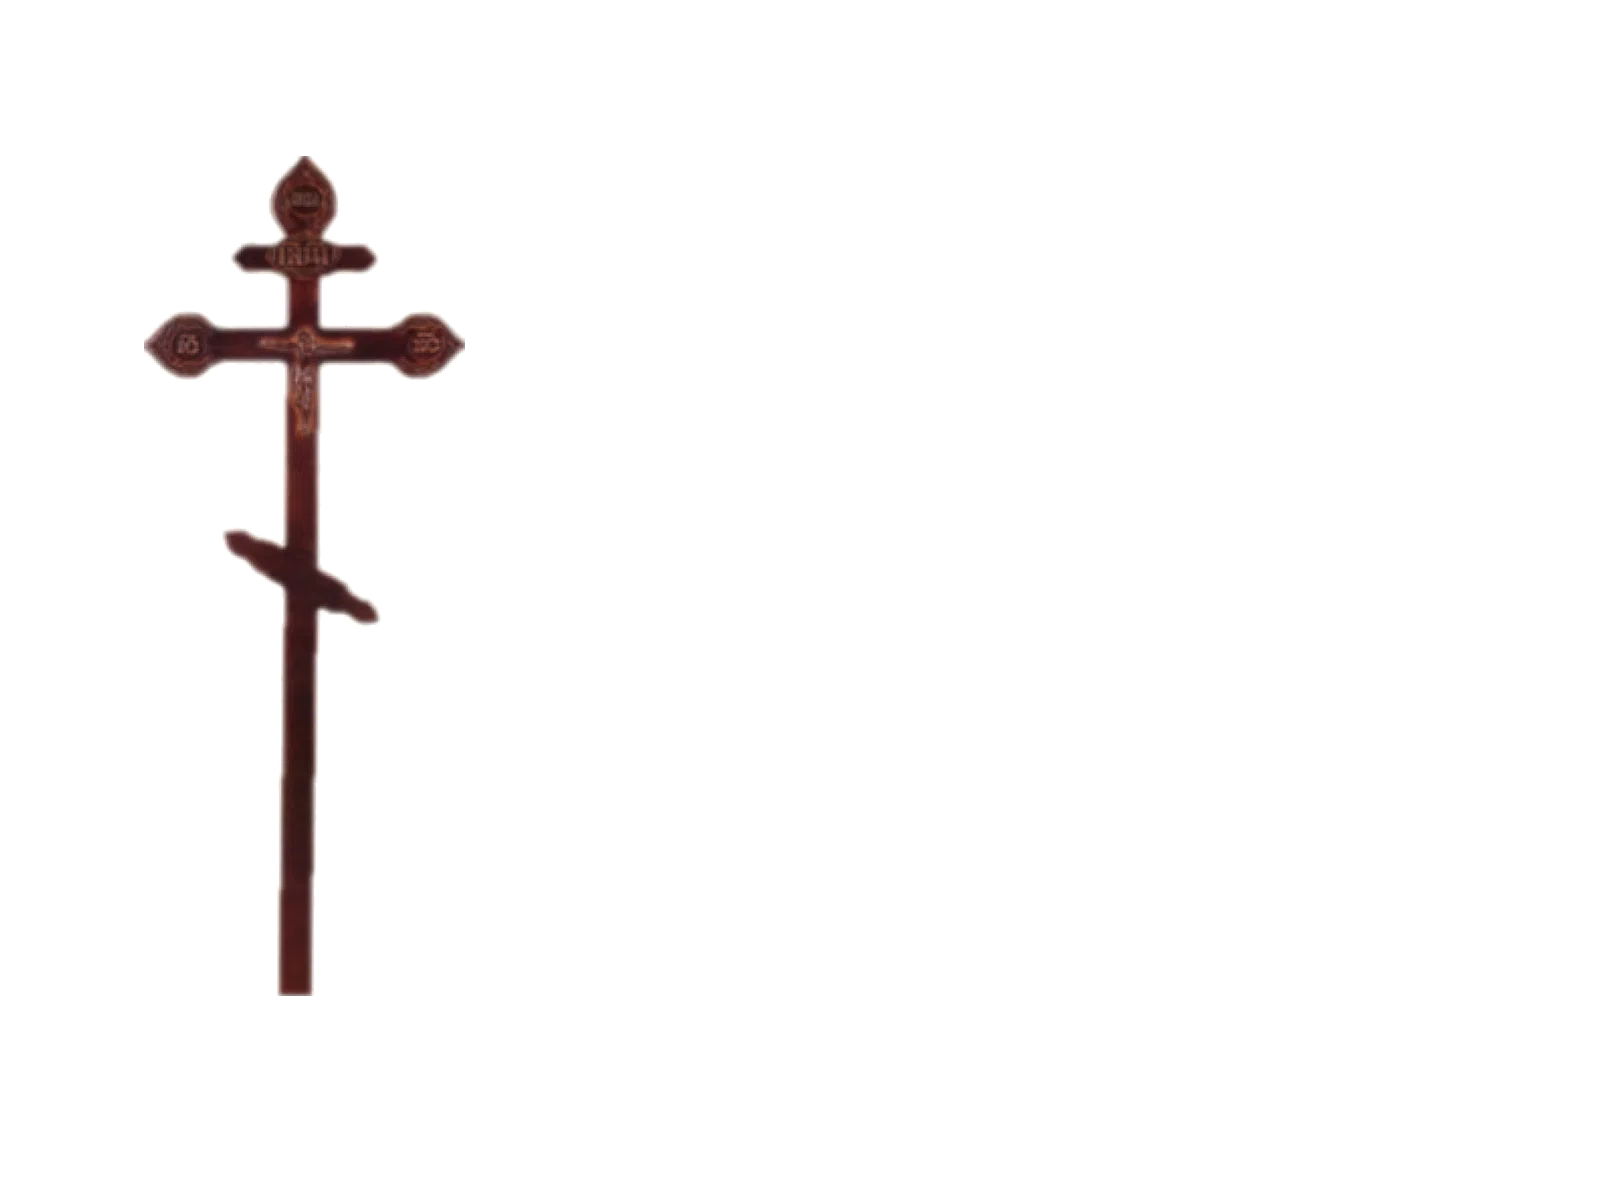
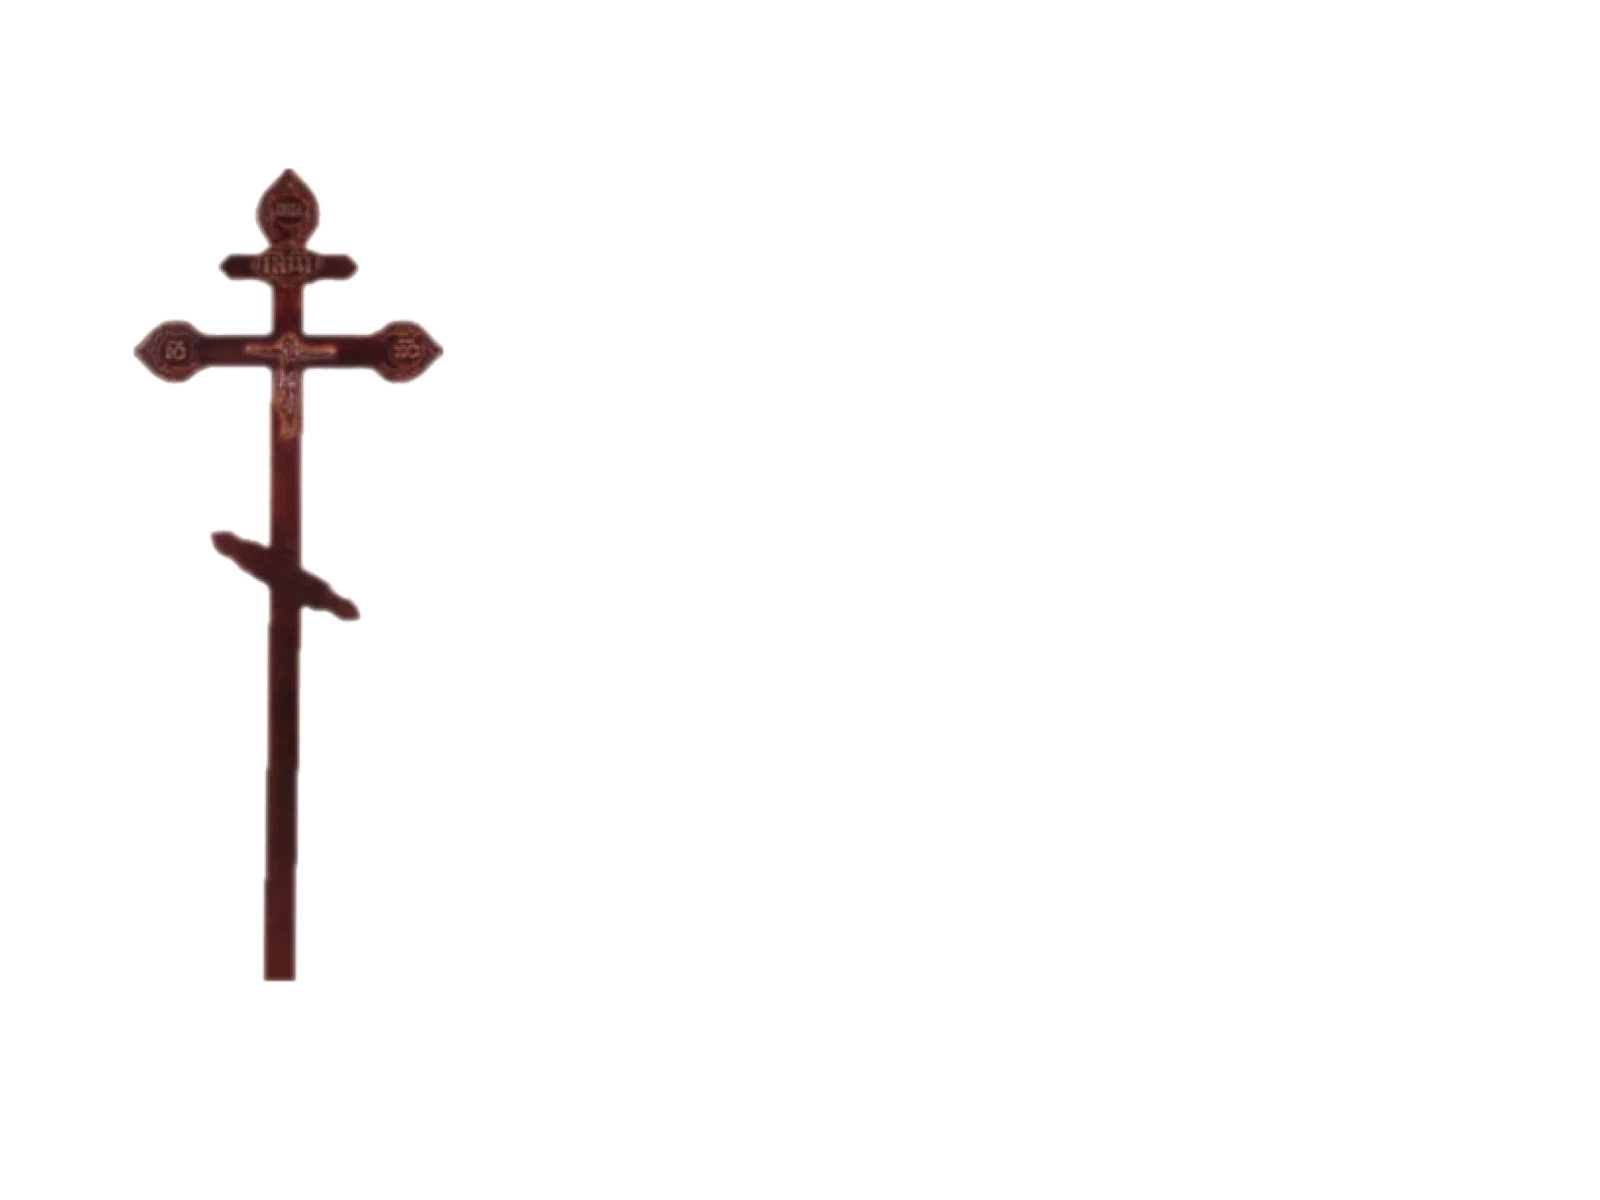
feat(visualizer): реактивное превью в смете + премиум-сцена (фон, отражение, чистые края)

Changed region(s): [[0.0625, 0.1233, 0.3125, 0.8325]]

diff --git a/app/agent/(app)/meetings/[meetingId]/quote/QuoteBuilder.tsx b/app/agent/(app)/meetings/[meetingId]/quote/QuoteBuilder.tsx
@@ -49,7 +49,7 @@ import {
 import { DEFAULT_ATTRIBUTES, type AttrSelection } from "@/lib/attributes";
 import { hydratePackage, withoutPackageItems, PACKAGE_ITEM_SOURCE } from "@/lib/packagePresets";
 import { formatDelta } from "@/lib/calculationUtils";
-import RitualConfigurator from "@/components/configurator/RitualConfigurator";
+import AttributeRender from "@/components/AttributeRender";
 import { ToggleRow } from "./components/ToggleRow";
 import { MemorialBlock } from "./components/MemorialBlock";
 import { EstimateItemRow } from "./components/EstimateItemRow";
@@ -1040,9 +1040,15 @@ export default function QuoteBuilder({ meetingId, cobrowseCode, clientName, case
               </div>
             )}
 
-            {/* Большое превью комплекта + разворот на весь экран */}
+            {/* Живая визуализация комплекта - собирается из выбранных позиций сметы */}
             <div className={s.configuratorSlot}>
-              <RitualConfigurator mode="inline" />
+              <div className="overflow-hidden rounded-[14px] border border-line bg-surface shadow-soft">
+                <div className="border-b border-line px-4 py-3">
+                  <p className="text-[13px] font-semibold text-ink">Визуализация комплекта</p>
+                  <p className="mt-0.5 text-[11px] text-ink-3">Сцена собирается из выбранного гроба, креста и венка - меняется при выборе</p>
+                </div>
+                <AttributeRender selection={attributes} selectedItems={estimateItems} className="block w-full" />
+              </div>
             </div>
 
             <div className={s.categoryRail} aria-label="Категории каталога">

diff --git a/scripts/catalog/scene_layers.py b/scripts/catalog/scene_layers.py
@@ -1,45 +1,49 @@
 #!/usr/bin/env python3
-"""Scene-placed transparent layers for the live set visualizer.
+"""Scene-placed transparent layers for the live set visualizer (premium pass).
 
-Takes white-studio product cutouts and re-places each onto a full 4:3 scene
-canvas at its category slot (coffin lower-center, cross standing at the head,
-wreath on a stand), with a soft contact shadow. Output: per-product transparent
-WEBP/PNG layers that the existing RitualSetPreview stacks into one coherent set
-that updates live as the client picks items.
+White-studio cutouts -> cleaned alpha (despeckle + de-halo + feather) -> placed
+on a 4:3 stage at category slots with soft contact shadow + floor reflection.
+Background is a calm hall: soft center spotlight, faint floor, gentle vignette.
 """
 import os
 import numpy as np
+import cv2
 from PIL import Image, ImageFilter, ImageDraw
 
 CUT = os.environ.get("CUTOUT_DIR", "cut")    # папка с белыми вырезами (вывод cutout.py)
 OUT = os.environ.get("SCENE_OUT", "scene")   # куда класть слои сцены
-CANVAS = (1600, 1200)  # 4:3 stage, all layers share this canvas so they align
+CANVAS = (1600, 1200)
 
-# Per-slot placement: center-x, baseline-y (bottom of object), height — all as
-# fractions of the canvas. Tuned so a 3/4 coffin reads as being on a catafalque,
-# the (frontal) cross stands at the head, the (frontal) wreath sits on a stand.
 SLOTS = {
-    "coffin": dict(cx=0.54, by=0.86, h=0.40, shadow=True),
-    "cross":  dict(cx=0.19, by=0.83, h=0.70, shadow=False),
-    "wreath": dict(cx=0.83, by=0.86, h=0.50, shadow=True),
+    "coffin": dict(cx=0.50, by=0.84, h=0.40, shadow=True, reflect=True),
+    "cross":  dict(cx=0.18, by=0.82, h=0.68, shadow=False, reflect=False),
+    "wreath": dict(cx=0.81, by=0.85, h=0.44, shadow=True, reflect=True),
 }
 
 
-def alpha_from_white(jpg_path, thr=236):
-    """Recover a transparent cutout from a white-background JPG."""
+def alpha_from_white(jpg_path, thr=232):
+    """Clean transparent cutout from a white-bg JPG: despeckle, de-halo, feather."""
     im = Image.open(jpg_path).convert("RGB")
-    arr = np.asarray(im).astype(np.int16)
-    white = (arr[..., 0] > thr) & (arr[..., 1] > thr) & (arr[..., 2] > thr)
-    a = (~white).astype(np.uint8) * 255
-    ys, xs = np.where(a > 12)
+    rgb = np.asarray(im).astype(np.int16)
+    white = (rgb[..., 0] > thr) & (rgb[..., 1] > thr) & (rgb[..., 2] > thr)
+    a = (~white).astype(np.uint8)
+    # keep the largest blob (drop stray specks => cleaner edges)
+    n, lab, stats, _ = cv2.connectedComponentsWithStats(a, 8)
+    if n > 1:
+        a = (lab == 1 + int(np.argmax(stats[1:, cv2.CC_STAT_AREA]))).astype(np.uint8)
+    # fill interior holes
+    ff = a.copy()
+    cv2.floodFill(ff, np.zeros((a.shape[0] + 2, a.shape[1] + 2), np.uint8), (0, 0), 1)
+    a = a | (1 - ff)
+    a = cv2.erode(a, cv2.getStructuringElement(cv2.MORPH_ELLIPSE, (3, 3)), 1)  # kill white halo
+    alpha = cv2.GaussianBlur((a * 255).astype(np.float32), (0, 0), 1.1)
+    ys, xs = np.where(alpha > 14)
     if len(xs) == 0:
         return None
     x0, x1, y0, y1 = xs.min(), xs.max(), ys.min(), ys.max()
-    im = im.crop((x0, y0, x1 + 1, y1 + 1))
-    am = Image.fromarray(a).crop((x0, y0, x1 + 1, y1 + 1)).filter(ImageFilter.GaussianBlur(0.8))
     rgba = im.convert("RGBA")
-    rgba.putalpha(am)
-    return rgba
+    rgba.putalpha(Image.fromarray(np.clip(alpha, 0, 255).astype(np.uint8)))
+    return rgba.crop((x0, y0, x1 + 1, y1 + 1))
 
 
 def place(layer_rgba, slot):
@@ -54,56 +58,70 @@ def place(layer_rgba, slot):
     if s["shadow"]:
         sh = Image.new("RGBA", CANVAS, (0, 0, 0, 0))
         ImageDraw.Draw(sh).ellipse(
-            [cx - int(w * 0.52), by - int(h * 0.06), cx + int(w * 0.52), by + int(h * 0.10)],
-            fill=(20, 25, 25, 90))
-        canvas.alpha_composite(sh.filter(ImageFilter.GaussianBlur(26)))
+            [cx - int(w * 0.46), by - int(h * 0.05), cx + int(w * 0.46), by + int(h * 0.07)],
+            fill=(12, 16, 16, 105))
+        canvas.alpha_composite(sh.filter(ImageFilter.GaussianBlur(32)))
+    if s["reflect"]:
+        ref = r.transpose(Image.FLIP_TOP_BOTTOM)
+        ra = np.asarray(ref.split()[-1]).astype(np.float32)
+        grad = np.linspace(0.22, 0.0, h)[:, None]  # fade reflection downward
+        ref.putalpha(Image.fromarray((ra * grad).astype(np.uint8)))
+        rc = Image.new("RGBA", CANVAS, (0, 0, 0, 0))
+        rc.alpha_composite(ref, (x, by))
+        canvas.alpha_composite(rc.filter(ImageFilter.GaussianBlur(2.0)))
     canvas.alpha_composite(r, (x, y))
     return canvas
 
 
 def make_background():
-    """Soft neutral studio gradient with a faint floor — calm, premium."""
-    bg = Image.new("RGB", CANVAS, (238, 240, 238))
-    top = np.linspace(232, 246, CANVAS[1] // 2).astype(np.uint8)
-    arr = np.asarray(bg).copy()
-    for i, v in enumerate(top):
-        arr[i, :, :] = (v, v + 1, v)
-    floor0 = CANVAS[1] // 2
-    floorv = np.linspace(246, 228, CANVAS[1] - floor0).astype(np.uint8)
-    for i, v in enumerate(floorv):
-        arr[floor0 + i, :, :] = (v, v, v - 2)
-    out = Image.fromarray(arr).filter(ImageFilter.GaussianBlur(40))
-    return out
+    """Calm hall: soft center spotlight, faint floor band, gentle vignette."""
+    W, H = CANVAS
+    yy, xx = np.mgrid[0:H, 0:W].astype(np.float32)
+    cx, cy = W * 0.5, H * 0.42
+    r = np.sqrt(((xx - cx) / (W * 0.66)) ** 2 + ((yy - cy) / (H * 0.66)) ** 2)
+    spot = np.clip(1.0 - r, 0, 1) ** 1.5
+    wall = 0.90 + 0.04 * (yy / H)
+    horizon = H * 0.64
+    floor = np.where(yy > horizon, 1.0 - 0.12 * np.clip((yy - horizon) / (H - horizon), 0, 1), 1.0)
+    vig = 1.0 - 0.20 * np.clip(r - 0.45, 0, 1)
+    val = np.clip(wall * floor * (0.84 + 0.22 * spot) * vig, 0, 1)
+    out = np.stack([val * 232, val * 234, val * 229], axis=-1)  # warm-neutral
+    return Image.fromarray(out.astype(np.uint8)).filter(ImageFilter.GaussianBlur(10))
 
 
-def gen_layer(category, src_name, out_name):
-    slot = {"coffins": "coffin", "crosses": "cross", "wreaths": "wreath"}[category]
-    rgba = alpha_from_white(f"{CUT}/{category}/{src_name}")
-    if rgba is None:
-        print("skip", src_name); return None
-    placed = place(rgba, slot)
-    os.makedirs(f"{OUT}/{category}", exist_ok=True)
-    p = f"{OUT}/{category}/{out_name}"
-    placed.save(p)
-    return p
+SRC = {
+    "coffins": {"classic-black": "fs-4.jpg", "classic-mahogany": "fsr-4.jpg",
+                "classic-walnut": "fkl-6s.jpg", "classic-dark-oak": "fsi-6.jpg"},
+    "crosses": {"orthodox-six-point": "kds-18.jpg", "orthodox-eight-point": "kds-17.jpg"},
+    "wreaths": {"orthodox-oval-red-white": "wr-std-5.jpg", "orthodox-oval-white-green": "wr-std-1.jpg",
+                "orthodox-oval-burgundy-green": "wr-std-4.jpg"},
+}
+SLOT_OF = {"coffins": "coffin", "crosses": "cross", "wreaths": "wreath"}
 
 
-def compose_demo(coffin, cross, wreath, out_path):
-    """Flatten bg + cross + coffin + wreath into one preview (offline QA)."""
-    base = make_background().convert("RGBA")
-    for cat, name in [("crosses", cross), ("coffins", coffin), ("wreaths", wreath)]:
-        if not name:
-            continue
-        slot = {"coffins": "coffin", "crosses": "cross", "wreaths": "wreath"}[cat]
-        rgba = alpha_from_white(f"{CUT}/{cat}/{name}")
-        if rgba is None:
-            continue
-        base.alpha_composite(place(rgba, slot))
+def gen_all():
+    for cat, m in SRC.items():
+        os.makedirs(f"{OUT}/{cat}", exist_ok=True)
+        for idn, src in m.items():
+            rgba = alpha_from_white(f"{CUT}/{cat}/{src}")
+            if rgba is None:
+                continue
+            place(rgba, SLOT_OF[cat]).save(f"{OUT}/{cat}/{idn}.webp", "WEBP", quality=84, method=0)
+    os.makedirs(f"{OUT}/backgrounds", exist_ok=True)
+    make_background().save(f"{OUT}/backgrounds/studio-neutral.webp", "WEBP", quality=82, method=0)
+
+
+def flatten(coffin, cross, wreath, out_path):
+    base = Image.open(f"{OUT}/backgrounds/studio-neutral.webp").convert("RGBA")
+    for cat, idn in [("crosses", cross), ("coffins", coffin), ("wreaths", wreath)]:
+        base.alpha_composite(Image.open(f"{OUT}/{cat}/{idn}.webp").convert("RGBA"))
     base.convert("RGB").save(out_path, quality=92)
-    return out_path
 
 
 if __name__ == "__main__":
-    compose_demo("fkl-6s.jpg", "kds-17.jpg", "wr-std-5.jpg",
-                 "/sessions/gifted-sharp-davinci/mnt/outputs/scene_demo.jpg")
-    print("wrote scene_demo.jpg")
+    gen_all()
+    flatten("classic-walnut", "orthodox-six-point", "orthodox-oval-red-white",
+            "/sessions/gifted-sharp-davinci/mnt/outputs/qa_set1.jpg")
+    flatten("classic-mahogany", "orthodox-eight-point", "orthodox-oval-white-green",
+            "/sessions/gifted-sharp-davinci/mnt/outputs/qa_set2.jpg")
+    print("done")
